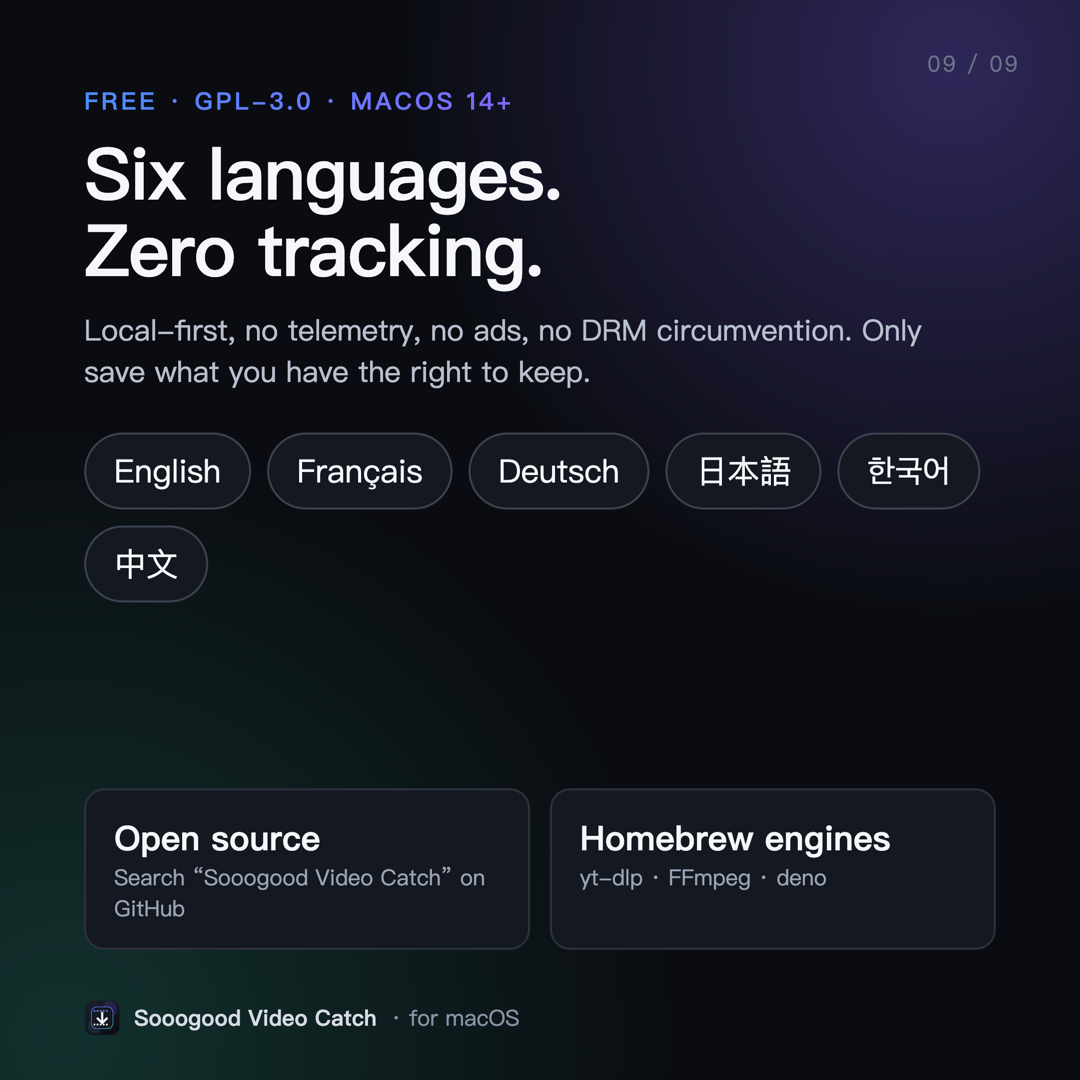
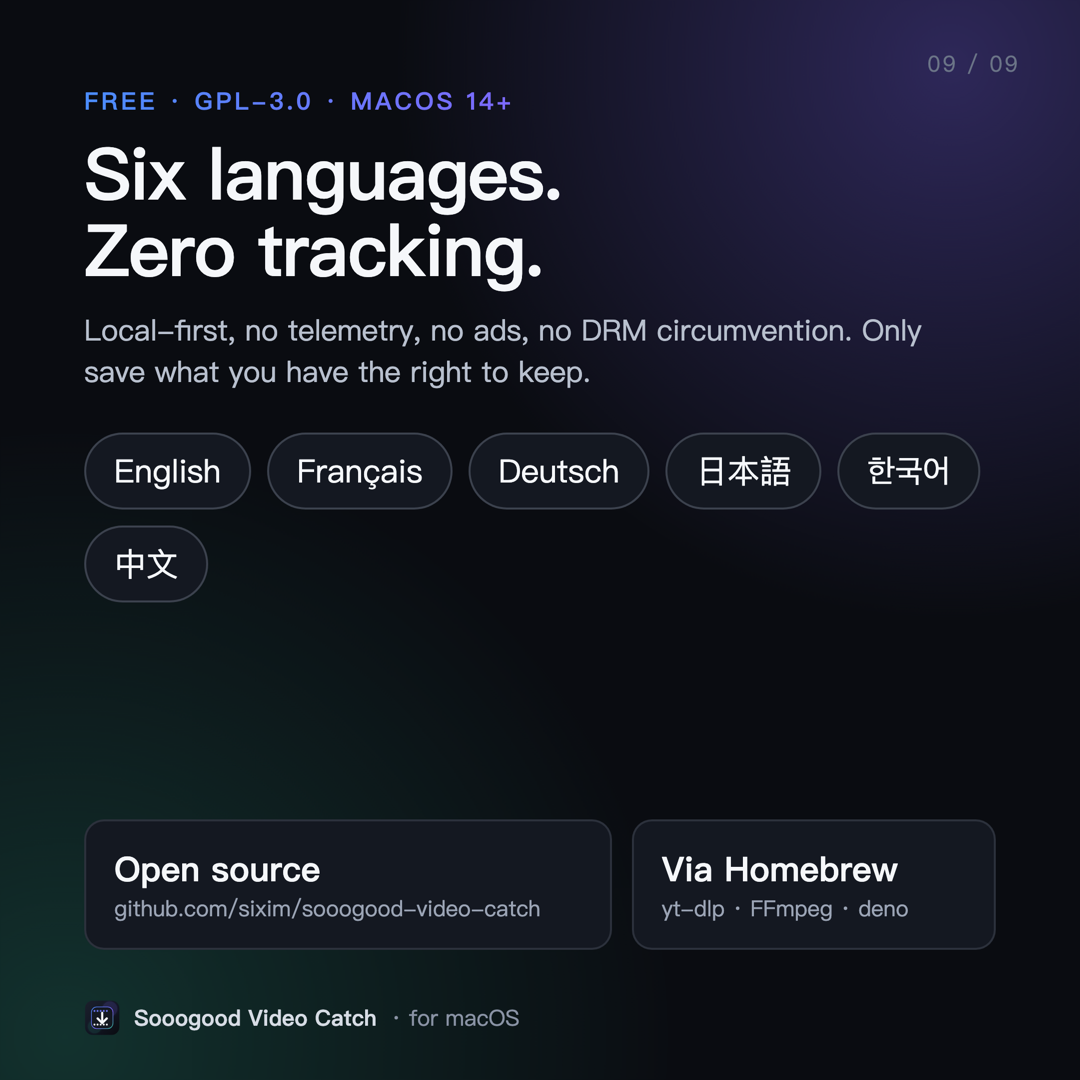
docs: point README clone commands and the promo card at github.com/sixim/sooogood-video-catch

Changed region(s): [[0.0917, 0.7333, 0.8556, 0.8861]]

diff --git a/Scripts/build_promo.py b/Scripts/build_promo.py
@@ -47,7 +47,7 @@ h1 { font-size: 72px; line-height: 1.06; font-weight: 800; letter-spacing: -1.5p
 .row span:first-child { color: #8A93A5; }
 .pills { display: flex; flex-wrap: wrap; gap: 16px; margin-top: 46px; }
 .pill { font-size: 32px; padding: 14px 28px; border-radius: 40px; background: #141821; border: 2px solid rgba(155,164,181,.3); }
-.facts { position: absolute; left: 84px; right: 84px; bottom: 130px; display: grid; grid-template-columns: 1fr 1fr; gap: 20px; }
+.facts { position: absolute; left: 84px; right: 84px; bottom: 130px; display: grid; grid-template-columns: 1.45fr 1fr; gap: 20px; }
 .fact { background: #141821; border: 2px solid rgba(155,164,181,.18); border-radius: 20px; padding: 24px 28px; }
 .fact b { display: block; font-size: 34px; } .fact span { font-size: 22px; color: #9BA4B5; }
 .hero-logo { width: 150px; height: 150px; }
@@ -124,8 +124,8 @@ SLIDES = [
           '<div class="pills" style="margin-top:40px">'
           + "".join(f'<div class="pill">{l}</div>' for l in ["English", "Français", "Deutsch", "日本語", "한국어", "中文"])
           + '</div><div class="facts" style="bottom:130px">'
-          '<div class="fact"><b>Open source</b><span>Search “Sooogood Video Catch” on GitHub</span></div>'
-          '<div class="fact"><b>Homebrew engines</b><span>yt-dlp · FFmpeg · deno</span></div>'
+          '<div class="fact"><b>Open source</b><span style="white-space:nowrap">github.com/sixim/sooogood-video-catch</span></div>'
+          '<div class="fact"><b>Via Homebrew</b><span>yt-dlp · FFmpeg · deno</span></div>'
           '</div>'),
 ]
 

diff --git a/README.md b/README.md
@@ -55,8 +55,8 @@ brew install transmission-cli whisper-cpp
 ## Build and run
 
 ```bash
-git clone <this repository>
-cd "Youtube Download App"
+git clone https://github.com/sixim/sooogood-video-catch.git
+cd sooogood-video-catch
 ./Scripts/package_app.sh
 open "dist/Sooogood Video Catch.app"
 ```

diff --git a/docs/README.fr.md b/docs/README.fr.md
@@ -57,6 +57,8 @@ brew install transmission-cli whisper-cpp
 ## Compiler et lancer
 
 ```bash
+git clone https://github.com/sixim/sooogood-video-catch.git
+cd sooogood-video-catch
 ./Scripts/package_app.sh
 open "dist/Sooogood Video Catch.app"
 ```

diff --git a/docs/README.ja.md b/docs/README.ja.md
@@ -57,6 +57,8 @@ brew install transmission-cli whisper-cpp
 ## ビルドと起動
 
 ```bash
+git clone https://github.com/sixim/sooogood-video-catch.git
+cd sooogood-video-catch
 ./Scripts/package_app.sh
 open "dist/Sooogood Video Catch.app"
 ```

diff --git a/docs/README.de.md b/docs/README.de.md
@@ -57,6 +57,8 @@ brew install transmission-cli whisper-cpp
 ## Bauen und starten
 
 ```bash
+git clone https://github.com/sixim/sooogood-video-catch.git
+cd sooogood-video-catch
 ./Scripts/package_app.sh
 open "dist/Sooogood Video Catch.app"
 ```

diff --git a/docs/README.ko.md b/docs/README.ko.md
@@ -57,6 +57,8 @@ brew install transmission-cli whisper-cpp
 ## 빌드와 실행
 
 ```bash
+git clone https://github.com/sixim/sooogood-video-catch.git
+cd sooogood-video-catch
 ./Scripts/package_app.sh
 open "dist/Sooogood Video Catch.app"
 ```

diff --git a/docs/README.zh-Hans.md b/docs/README.zh-Hans.md
@@ -57,6 +57,8 @@ brew install transmission-cli whisper-cpp
 ## 编译与运行
 
 ```bash
+git clone https://github.com/sixim/sooogood-video-catch.git
+cd sooogood-video-catch
 ./Scripts/package_app.sh
 open "dist/Sooogood Video Catch.app"
 ```
